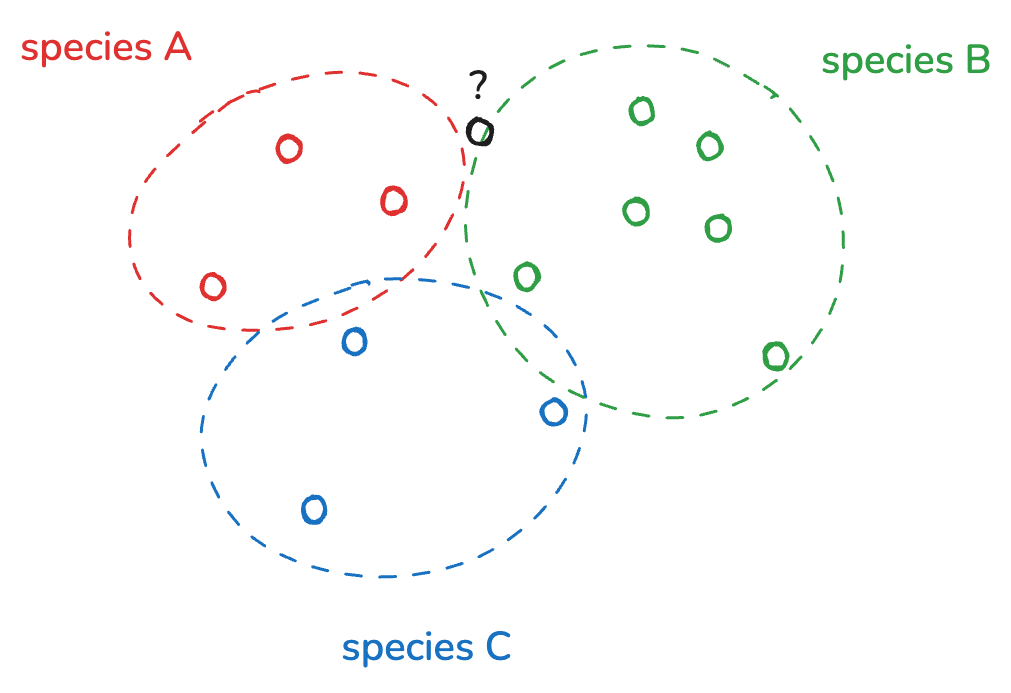
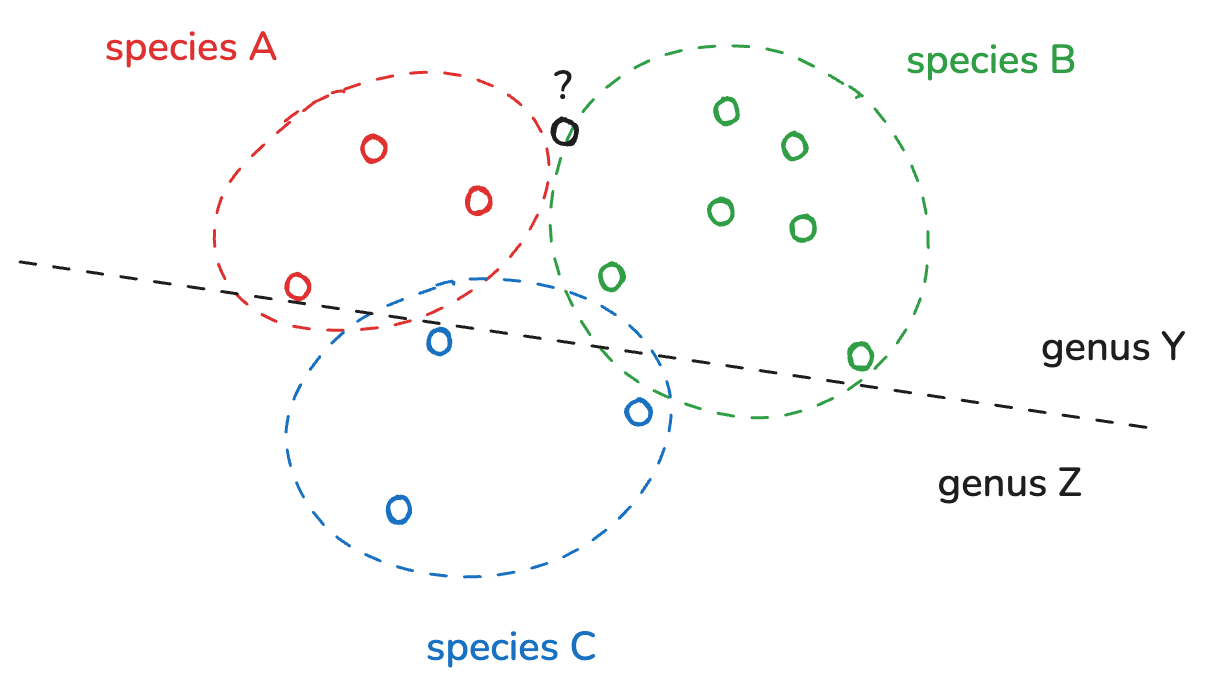
readme

diff --git a/README.md b/README.md
@@ -1,7 +1,10 @@
 # PacMAN final meeting training
+
+The goal of this training session is to go over the data submission process for the PacMAN decision support tool, and do a hands-on demonstration of every step in the process.
+
 ## PacMAN data flow
 
-The PacMAN decision support system integrates detections from various sources by connecting to the OBIS database. Data publishing to OBIS typically happens through an Integrated Publishing Toolkit (IPT) instance. This is also the case for the PacMAN monitoring campaigns. Before sequence data from eDNA sampling can be published to OBIS, it needs to be processed and formatted in the Darwin Core Archive format. Processing involves quality controlling and trimming of sequences, ASV inference, and taxonomic annotation. These steps are taken care of by the [PacMAN bioinformatics pipeline](https://github.com/iobis/PacMAN-pipeline).
+The PacMAN decision support system integrates detections from various sources by connecting to the OBIS database. Data publishing to OBIS typically happens through an **Integrated Publishing Toolkit (IPT)** instance. This is also the case for the PacMAN monitoring campaigns. Before sequence data from eDNA sampling can be published to OBIS, it needs to be **processed and formatted in the Darwin Core format**. Processing involves quality controlling and trimming of sequences, ASV inference, and taxonomic annotation. These steps are taken care of by the [PacMAN bioinformatics pipeline](https://github.com/iobis/PacMAN-pipeline).
 
 <img src="images/data_flow.png" width="500" />
 
@@ -9,22 +12,22 @@ The PacMAN decision support system integrates detections from various sources by
 
 ### Taxonomic annotation
 
-The PacMAN pipeline uses a number of taxonomic annotation algorithms. The main taxonomic assignment, which is used to populate the `scientificName` field in Darwin Core, is the naïve Bayesian classifier RDP Classifier. RDP Classifier calculates a probability for every possible taxonomic annotation using kmer frequences, and then applies a bootstrapping procedure to obtain a confidence score for each taxonomic level.
+The PacMAN pipeline uses a number of taxonomic annotation algorithms. The main taxonomic assignment, which is used to populate the `scientificName` field in Darwin Core, is the naïve Bayesian classifier RDP Classifier. RDP Classifier calculates a probability for every possible taxonomic annotation using k-mer frequences, and then applies a bootstrapping procedure to obtain a confidence score for each taxonomic level.
 
-The pipeline also includes a VSEARCH step which uses kmer search to find the closest matches in a reference database. VSEARCH also provides a similarity score for each match. 
+The pipeline also includes a VSEARCH step which uses k-mer based search to find the closest matches in a reference database. VSEARCH also provides a similarity score for each matching sequence. The results from this alternative algorithm are included in the `identificationRemarks` Darwin Core field.
 
 <img src="images/classification.png" width="600" />
 
-| Algorithm | Results |
-| --- | --- |
-| RDP Classifier | family X (confidence 1), genus Y (confidence 0.9), species B (confidence 0.3) |
-| VSEARCH |  family X, genus Y, species A (identity 0.997) <br/> family X, genus Y, species B (identity 0.995) <br/> family X, genus Y, species B (identity 0.995) <br/> family X, genus Y, species A (identity 0.992) <br/> family X, genus Z, species C (identity 0.983) <br/> family X, genus Z, species C (identity 0.975) <br/>|
+| Algorithm | Results | Darwin Core field |
+| --- | --- | --- |
+| RDP Classifier | family X (confidence 1), genus Y (confidence 0.9), species B (confidence 0.3) | scientificName |
+| VSEARCH |  family X, genus Y, species A (identity 0.997) <br/> family X, genus Y, species B (identity 0.995) <br/> family X, genus Y, species B (identity 0.995) <br/> family X, genus Y, species A (identity 0.992) <br/> family X, genus Z, species C (identity 0.983) <br/> family X, genus Z, species C (identity 0.975) | identificationRemarks |
 
 ### Running the PacMAN pipeline
 
-The PacMAN bioinformatics pipeline is workflow based on commonly used bioinformatics tools and custom scripts. The pipeline can be run using the Snakemake workflow management system. Snakemake takes care of installing the necessary dependencies in Conda environments, and running the different steps of the pipeline in the correct order.
+The PacMAN bioinformatics pipeline is workflow based on commonly used bioinformatics tools and custom scripts. The pipeline is orchestrated using the Snakemake workflow management system. Snakemake takes care of installing the necessary dependencies in Conda environments, and running the different steps of the pipeline in the correct order.
 
-In addition to installing Conda and Snakemake locally, it's also possible to run the pipeline using Docker. In this case, the pipeline is encapsulated in a Docker container, and the data folders are mounted as volumes.
+In addition to installing Conda and Snakemake locally, it's also possible to run the pipeline using Docker. In this case, the pipeline is encapsulated in a Docker container, and the data and results folders are mounted as "volumes" so they can be shared between the Docker container and the host machine.
 
 <img src="images/docker.png" width="600" />
 
@@ -73,16 +76,23 @@ docker run --platform linux/amd64 \
 ![pipeline run](images/condensed.svg)
 
 ### PacMAN pipeline results
+
+:warning: To do: add screenshots.
+
 #### Pipeline report
 
-Sign into the [OBIS JupyterHub](https://jupyter.obis.org/) to explore an example pipeline result. Navigte to the example dataset in `shared/example_results` and check the following files:
+Sign into the [OBIS JupyterHub](https://jupyter.obis.org/) to explore an example pipeline result dataset. JupyterHub is an online coomputing environment that allows us to explore data data without the need to download any files or install any software locally.
 
-- the pipeline report in `results/PacMAN/runs/COI/06-report`
-- the Darwin Core tables in `results/PacMAN/runs/COI/05-dwca`
+Navigte to the example dataset in `shared/example_results` and check the following files:
+
+- The pipeline report in `results/PacMAN/runs/COI/06-report`
+- The Darwin Core tables in `results/PacMAN/runs/COI/05-dwca`
+  - `Occurrence_table.tsv`
+  - `DNA_extension_table.tsv`
 
 #### Exploring taxonomic composition in R
 
-The pipeline results are also available as a phyloseq object, which makes it very convenient to analyse the dataset in R. To read more about this data format, continue to the [phyloseq website](https://joey711.github.io/phyloseq/import-data.html#phyloseq-ize_data_already_in_r).
+The pipeline results are also available as a `phyloseq` object, which makes it very convenient to analyse the dataset in R. To read more about this data format, continue to the [phyloseq website](https://joey711.github.io/phyloseq/import-data.html#phyloseq-ize_data_already_in_r).
 
 For example, to visualize the taxonomic composition of the dataset as a Krona plot, run the following code in an R notebook:
 
@@ -107,30 +117,35 @@ Then open the resulting `krona_plot.html` file.
 
 ## Biodiversity data publishing
 
+After conversion to Darwin Core tables, our dataset can be published to OBIS trough a Integrated Publishing Toolkit (IPT) instance. IPT allows us to enter metadata through a form, and map the columns in our tables to Darwin Core fields. The result will be a Darwin Core Archive file which can be ingested by platforms such as OBIS and GBIF. This archive contains our data tables, a metadata document, and a document describing the structure of our dataset (tables and fields).
+
 ![dwc](https://ipt.gbif.org/manual/en/ipt/latest/_images/figures/dwc-a_event.png)
 
-After conversion to Darwin Core, our dataset can be published to OBIS trough a Integrated Publishing Toolkit (IPT) instance. For this training we will work on the OBIS training IPT. Go to <https://ipt.iobis.org/training> and sign in with the provided credentials.
-Download the example dataset and identify the Occurrence and DNADerivedData files in `results/PacMAN/runs/COI/05-dwca`.
+For this training we will work on the OBIS training IPT. Go to <https://ipt.iobis.org/training> and sign in with the provided credentials.
 
-To create a new dataset in IPT, navigate to the "Manage Resources" tab and click "Create new".
+Before proceeding, download the occurrence and DNA tables from the example dataset in JupyterHub (find both files in `results/PacMAN/runs/COI/05-dwca`).
+
+To create a new dataset in IPT, navigate to the `Manage Resources` tab and click `Create new`.
 
 ### IPT metadata form
 
-Scroll to the "Metadata" section and click "Edit". Minimal metadata needs to be completed to be able to publish the dataset, such as a title, license, description, and contacts. After completing the form, click "Save" at the top.
+Scroll to the `Metadata` section and click `Edit`. Minimal metadata needs to be completed to be able to publish the dataset, such as a title, license, description, and contacts. After completing the form, click `Save` at the top.
 
 ### IPT data upload
 
-Go back to the dataset overview and scroll to the "Source Data" section. Click "Add" on the right. Upload the Ocurrence and DNADerivedData files, but make sure to check if the number of columns detected is correct. If not, adjust the field delimiter (should be `\t`), and click `Options > Analyze` at the top to update the number of columns.
+Go back to the dataset overview and scroll to the `Source Data` section. Click `Add` on the right. Upload the Ocurrence and DNADerivedData files, but make sure to check if the number of columns detected is correct. If not, adjust the field delimiter (should be `\t`), and click `Options > Analyze` at the top to update the number of columns.
 
 ### IPT terms mapping
 
-Now go to "Darwin Core Mappings" and click "Add". First select "Darwin Core Occurrence" and pick the appropriate source file. Click "Save" to continue.
+Now go to `Darwin Core Mappings` and click `Add`. First select `Darwin Core Occurrence` and pick the appropriate source file. Click `Save` to continue.
 
-As the files are using Darwin Core terms, the mapping is done automatically and we can confirm with "Save".
+As the files are using Darwin Core terms, the mapping is done automatically and we can confirm with `Save`.
 
 ### IPT publishing
 
-We are now ready to publish. First set visibility to public the "Visibility" section, then go to the "Publishing" section, and click "Publish" on the right.
+We are now ready to publish. First set visibility to public the `Visibility` section, then go to the `Publishing` section, and click `Publish` on the right. If we were working on a production IPT instance, the dataset would now be ingested by OBIS and be available for the decision support system.
+
+To see how records are made available by the OBIS system, run [this API call](https://api.obis.org/occurrence?geometry=POLYGON%20((178.342438%20-18.216307,%20178.342438%20-18.071451,%20178.534698%20-18.071451,%20178.534698%20-18.216307,%20178.342438%20-18.216307))) which fetches occurrence data from the Suva area.
 
 ## Decision support
 ## Other resources
